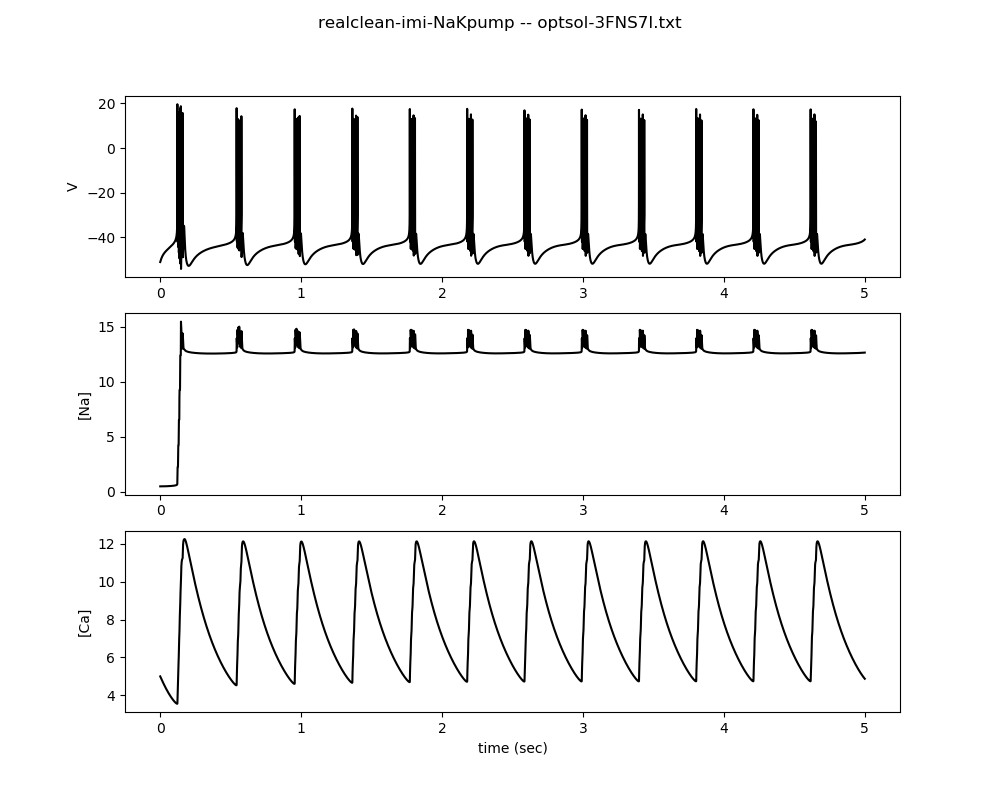
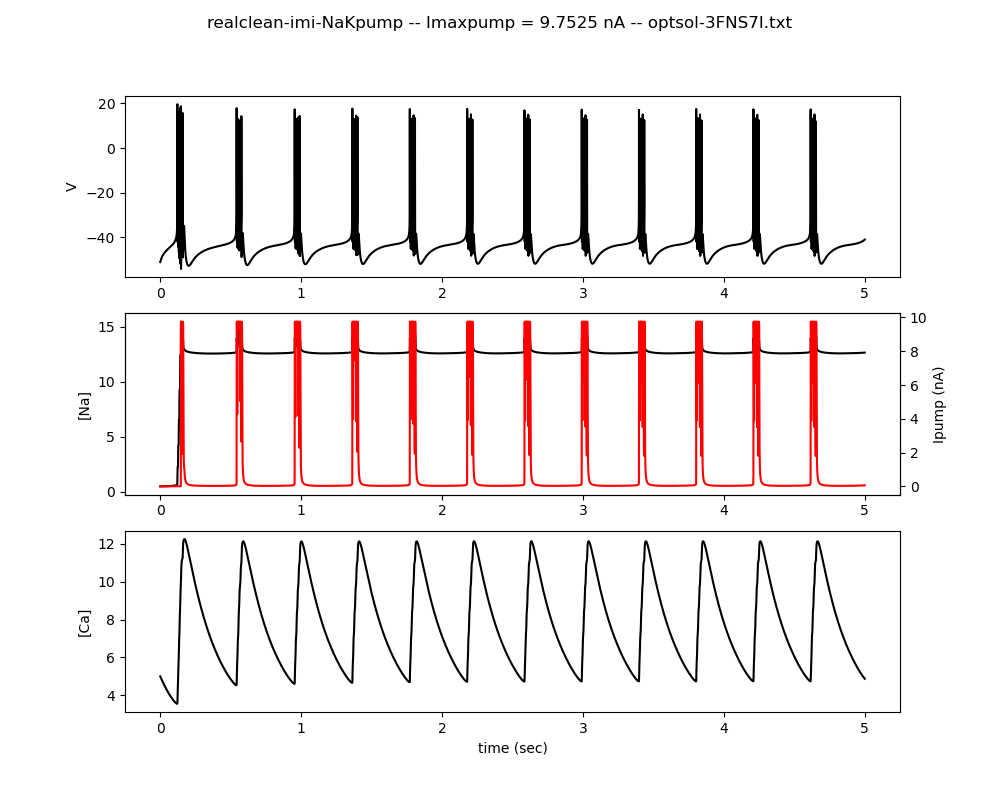
Complete investigation of 3FNS7I

diff --git a/plotModifiedSolution.py b/plotModifiedSolution.py
@@ -27,7 +27,7 @@ def getIpump(p, sol):
 # alphaFvol = p[43]
 
 # hashname=id_generator()
-hashname='HDC73U'
+hashname='3FNS7I'
 
 pfname='optsol-'+hashname+'.txt'
 p = genfromtxt(pfname)
